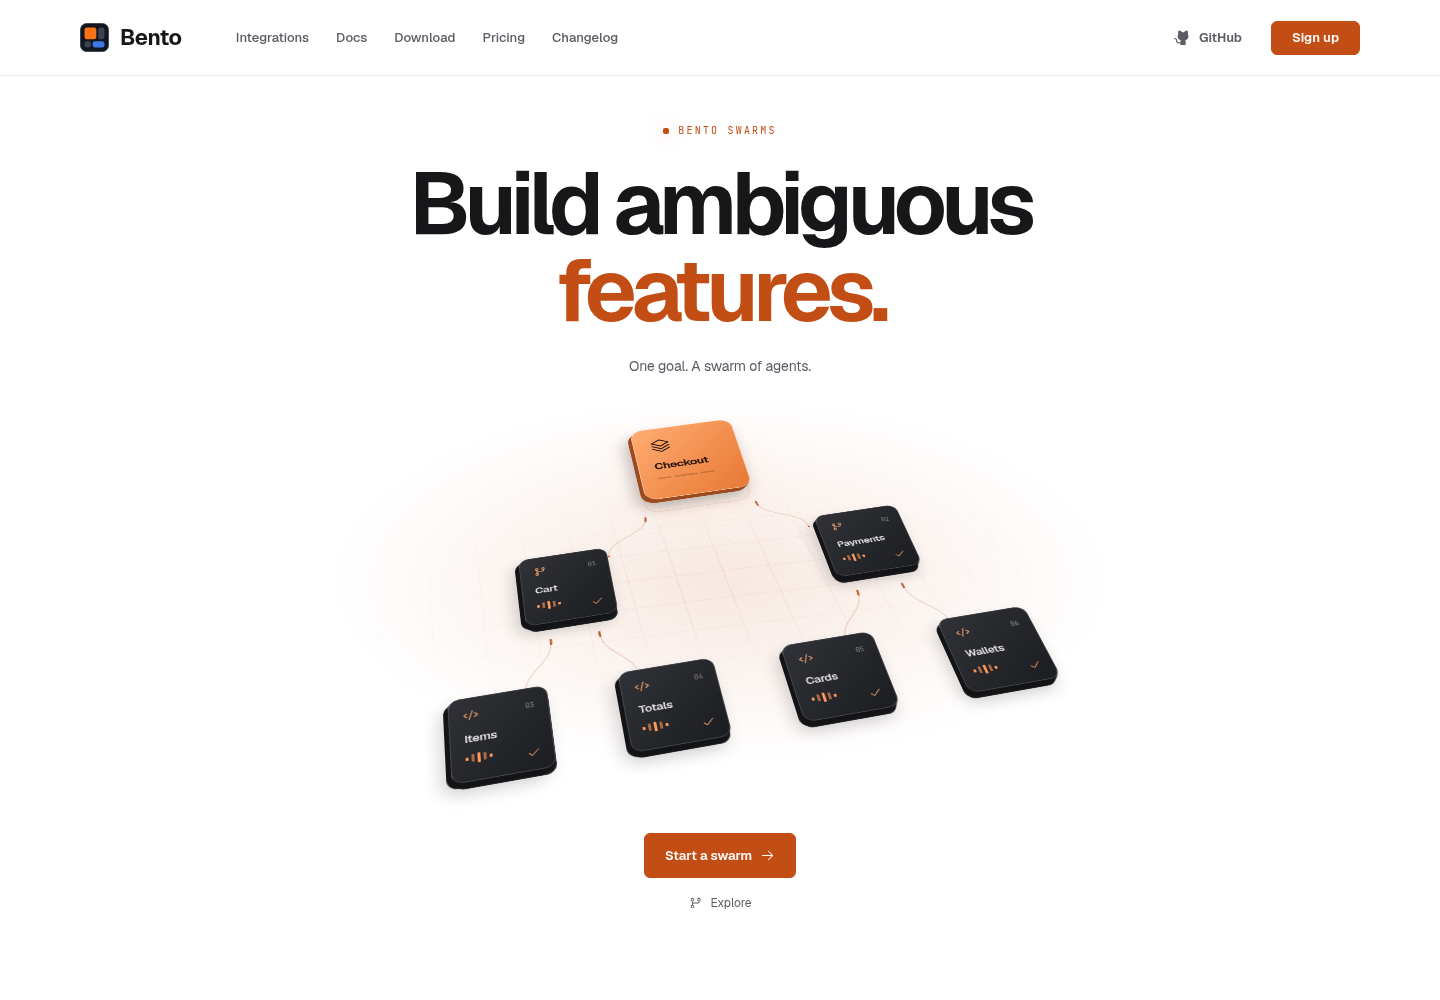
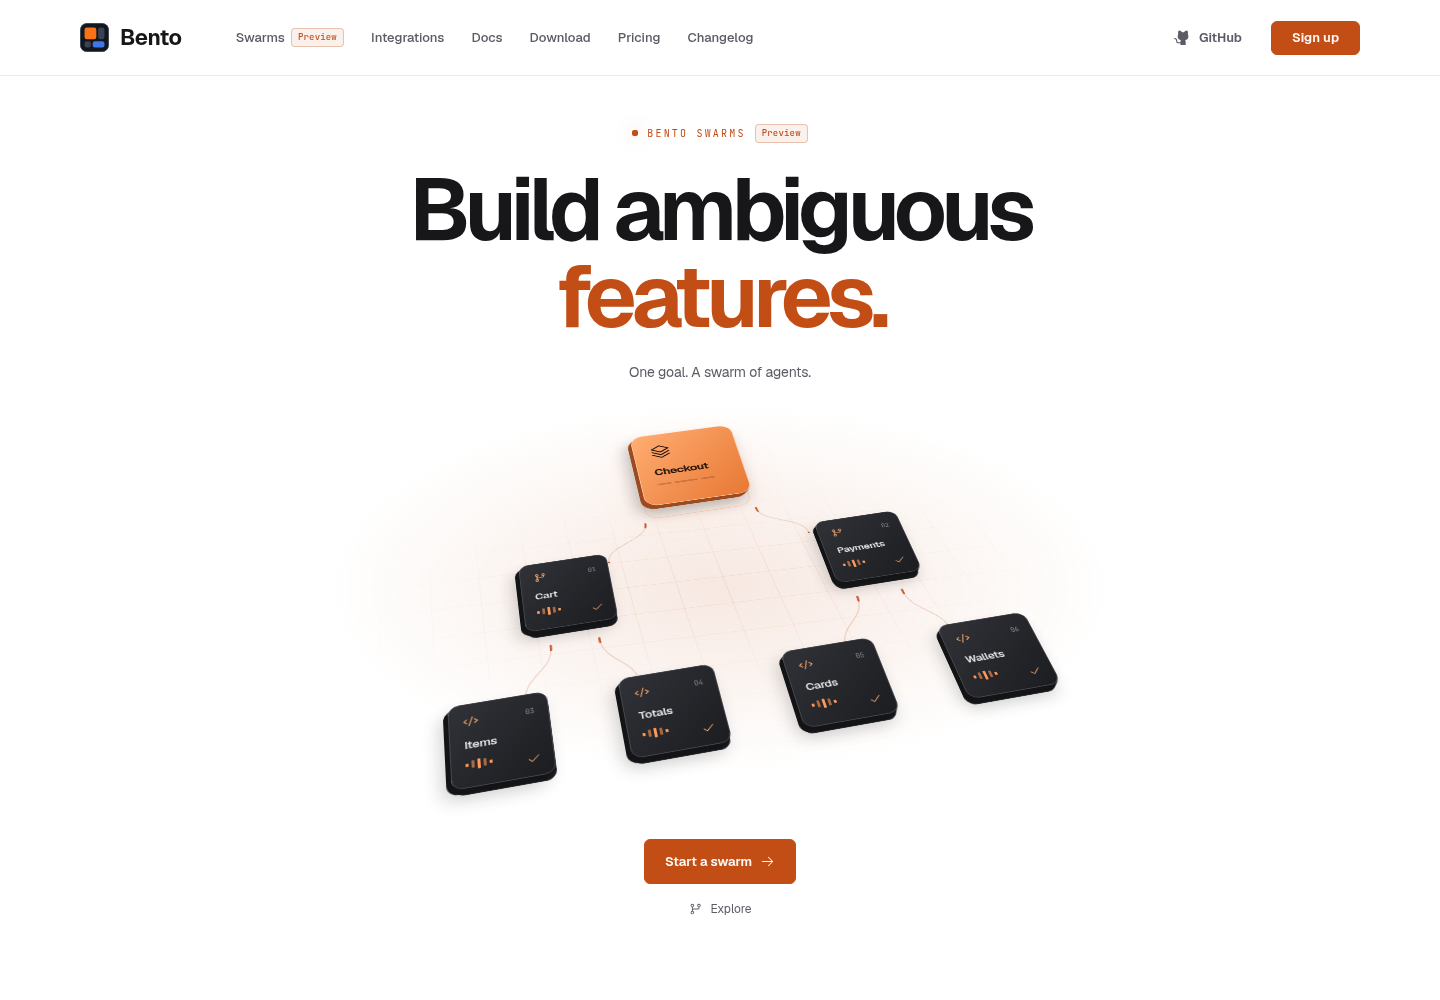
Add Swarms navigation with Preview badges

diff --git a/app/swarms/swarms.css b/app/swarms/swarms.css
@@ -2,7 +2,7 @@
 .swarm-experience { position: relative; padding: 48px 24px 40px; overflow: hidden; }
 .swarm-heading { position: relative; z-index: 2; text-align: center; }
 .swarm-eyebrow { display: flex; align-items: center; justify-content: center; gap: 9px; margin-bottom: 23px; font: 10px var(--font-jetbrains-mono), monospace; color: var(--brand); letter-spacing: .22em; }
-.swarm-eyebrow > span { width: 6px; height: 6px; border-radius: 2px; background: var(--brand); box-shadow: 0 0 18px color-mix(in srgb, var(--brand) 40%, transparent); }
+.swarm-eyebrow-dot { width: 6px; height: 6px; border-radius: 2px; background: var(--brand); box-shadow: 0 0 18px color-mix(in srgb, var(--brand) 40%, transparent); }
 .swarm-heading h1 { display: grid; margin: 0; font-size: clamp(48px, 6.4vw, 88px); font-weight: 650; line-height: .99; letter-spacing: -.065em; perspective: 900px; }
 .swarm-title { grid-area: 1 / 1; display: grid; opacity: 0; visibility: hidden; transform: translateY(18px) rotateX(-14deg); transform-origin: center bottom; transition: opacity 650ms ease, transform 850ms cubic-bezier(.22,1,.36,1), visibility 650ms; }
 .swarm-title[data-active="true"] { opacity: 1; visibility: visible; transform: none; }

diff --git a/app/marketing.css b/app/marketing.css
@@ -156,6 +156,8 @@ body:has(.marketing-page) {
 .marketing-page .brand-lockup { font-size: 22px; gap: 11px; }
 .marketing-page .brand-glyph { width: 29px; height: 29px; }
 .marketing-page .header-actions .cta-link { min-height: 34px; }
+.marketing-preview { display: inline-flex; align-items: center; padding: 2px 6px; border: 1px solid color-mix(in srgb, var(--brand) 30%, transparent); border-radius: 4px; background: color-mix(in srgb, var(--brand) 8%, transparent); color: var(--brand); font: 500 9px/1.4 var(--font-jetbrains-mono), monospace; letter-spacing: .02em; white-space: nowrap; }
+.marketing-page .primary-navigation a:has(.marketing-preview) { display: inline-flex; align-items: center; gap: 6px; }
 .marketing-menu { display: none; z-index: 25; }
 .marketing-skip { position: fixed; left: 20px; top: -100px; padding: 12px 18px; background: var(--brand); color: var(--on-brand); z-index: 100; }
 .marketing-skip:focus { top: 12px; }

diff --git a/components/marketing/header.tsx b/components/marketing/header.tsx
@@ -4,6 +4,7 @@ import { SiteHeader } from "@/components/site-header";
 import { siteConfig } from "@/lib/site";
 
 const navigation = [
+  { label: "Swarms", href: "/swarms", preview: true },
   { label: "Integrations", href: "/#integrations" },
   { label: "Docs", href: "/docs" },
   { label: "Download", href: "/download" },
@@ -19,8 +20,8 @@ export function MarketingHeader() {
       <details className="marketing-menu">
         <summary aria-label="Navigation menu"><List size={22} /></summary>
         <nav aria-label="Mobile navigation">
-          {navigation.map(({ label, href }) => (
-            <Link key={href} href={href}>{label}</Link>
+          {navigation.map(({ label, href, preview }) => (
+            <Link key={href} href={href}>{label}{preview && <span className="marketing-preview">Preview</span>}</Link>
           ))}
         </nav>
       </details>

diff --git a/components/swarms/swarm-hero.tsx b/components/swarms/swarm-hero.tsx
@@ -56,7 +56,7 @@ export function SwarmHero() {
   const headline = headlines[active];
   return <div className="swarm-experience">
     <div className="swarm-heading">
-      <div className="swarm-eyebrow"><span /> BENTO SWARMS</div>
+      <div className="swarm-eyebrow"><span className="swarm-eyebrow-dot" /> BENTO SWARMS <span className="marketing-preview">Preview</span></div>
       <h1 aria-label={headline.title}>
         {headlines.map((item, index) => <span className="swarm-title" data-active={active === index} key={item.title} aria-hidden="true"><span>{item.lines[0]}</span><span>{item.lines[1]}</span></span>)}
       </h1>

diff --git a/components/site-header.tsx b/components/site-header.tsx
@@ -7,7 +7,7 @@ interface SiteHeaderProps {
   githubUrl: string | null;
   signupUrl: string | null;
   hideCtaArrows?: boolean;
-  navigation?: readonly { href: string; label: string }[];
+  navigation?: readonly { href: string; label: string; preview?: boolean }[];
 }
 
 const defaultNavigation = [
@@ -32,6 +32,7 @@ export function SiteHeader({
           {navigation.map((item) => (
             <Link href={item.href} key={item.href}>
               {item.label}
+              {item.preview && <span className="marketing-preview">Preview</span>}
             </Link>
           ))}
         </nav>
